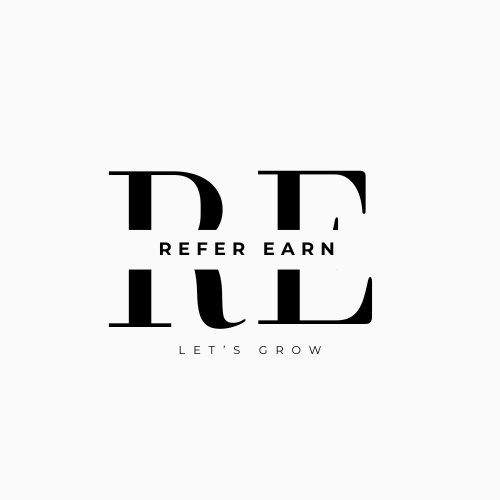
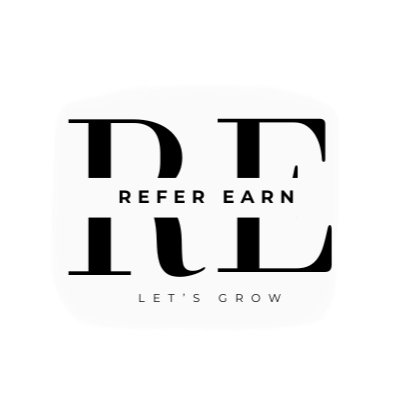
frontend_done

Changed region(s): [[0.1796, 0.2693, 0.8379, 0.7481], [0.1496, 0.5387, 0.3591, 0.6883], [0.4788, 0.7182, 0.5087, 0.7481]]

diff --git a/app/contact/page.tsx b/app/contact/page.tsx
@@ -1,17 +1,48 @@
-import React from 'react';
+"use client"
+import React, { useState } from 'react';
+import emailjs from 'emailjs-com';
 
 const ContactUs: React.FC = () => {
+  const [formData, setFormData] = useState({
+    name: '',
+    email: '',
+    message: '',
+  });
+  const [isSent, setIsSent] = useState(false);
+  const [error, setError] = useState('');
+
+  const handleChange = (e: React.ChangeEvent<HTMLInputElement | HTMLTextAreaElement>) => {
+    const { name, value } = e.target;
+    setFormData({ ...formData, [name]: value });
+  };
+
+  const handleSubmit = (e: React.FormEvent<HTMLFormElement>) => {
+    e.preventDefault();
+
+    emailjs.send('service_syujl1n', 'YOUR_TEMPLATE_ID', formData, 'tech.refereran@gmail.com')
+      .then((response) => {
+        console.log('SUCCESS!', response.status, response.text);
+        setIsSent(true);
+        setFormData({ name: '', email: '', message: '' }); // Reset form
+      })
+      .catch((err) => {
+        console.error('FAILED...', err);
+        setError('Failed to send message. Please try again later.');
+      });
+  };
+
   return (
     <section className="text-gray-600 body-font relative">
       <div className="container px-5 py-24 mx-auto">
         <div className="flex flex-col text-center w-full mb-12">
           <h1 className="sm:text-3xl text-2xl font-medium title-font mb-4 text-gray-900">Contact Us</h1>
           <p className="lg:w-2/3 mx-auto leading-relaxed text-base">
-            Whatever cardigan tote bag tumblr hexagon brooklyn asymmetrical gentrify.
+            If facing any issue, You are Welcomed to share with us.
+            Write your query/issue properly.
           </p>
         </div>
         <div className="lg:w-1/2 md:w-2/3 mx-auto">
-          <div className="flex flex-wrap -m-2">
+          <form onSubmit={handleSubmit} className="flex flex-wrap -m-2">
             <div className="p-2 w-1/2">
               <div className="relative">
                 <label htmlFor="name" className="leading-7 text-sm text-gray-600">Name</label>
@@ -19,7 +50,10 @@ const ContactUs: React.FC = () => {
                   type="text"
                   id="name"
                   name="name"
+                  value={formData.name}
+                  onChange={handleChange}
                   className="w-full bg-gray-100 bg-opacity-50 rounded border border-gray-300 focus:border-indigo-500 focus:bg-white focus:ring-2 focus:ring-indigo-200 text-base outline-none text-gray-700 py-1 px-3 leading-8 transition-colors duration-200 ease-in-out"
+                  required
                 />
               </div>
             </div>
@@ -30,7 +64,10 @@ const ContactUs: React.FC = () => {
                   type="email"
                   id="email"
                   name="email"
+                  value={formData.email}
+                  onChange={handleChange}
                   className="w-full bg-gray-100 bg-opacity-50 rounded border border-gray-300 focus:border-indigo-500 focus:bg-white focus:ring-2 focus:ring-indigo-200 text-base outline-none text-gray-700 py-1 px-3 leading-8 transition-colors duration-200 ease-in-out"
+                  required
                 />
               </div>
             </div>
@@ -40,41 +77,30 @@ const ContactUs: React.FC = () => {
                 <textarea
                   id="message"
                   name="message"
+                  value={formData.message}
+                  onChange={handleChange}
                   className="w-full bg-gray-100 bg-opacity-50 rounded border border-gray-300 focus:border-indigo-500 focus:bg-white focus:ring-2 focus:ring-indigo-200 h-32 text-base outline-none text-gray-700 py-1 px-3 resize-none leading-6 transition-colors duration-200 ease-in-out"
+                  required
                 ></textarea>
               </div>
             </div>
             <div className="p-2 w-full">
-              <button className="flex mx-auto text-white bg-indigo-500 border-0 py-2 px-8 focus:outline-none hover:bg-indigo-600 rounded text-lg">Button</button>
+              <button type="submit" className="flex mx-auto text-white bg-indigo-500 border-0 py-2 px-8 focus:outline-none hover:bg-indigo-600 rounded text-lg">Send Message</button>
             </div>
+            {isSent && (
+              <div className="p-2 w-full pt-8 mt-8 border-t border-gray-200 text-center">
+                <p className="text-green-500">Message sent successfully!</p>
+              </div>
+            )}
+            {error && (
+              <div className="p-2 w-full pt-8 mt-8 border-t border-gray-200 text-center">
+                <p className="text-red-500">{error}</p>
+              </div>
+            )}
             <div className="p-2 w-full pt-8 mt-8 border-t border-gray-200 text-center">
-              <a className="text-indigo-500">example@email.com</a>
-              <p className="leading-normal my-5">49 Smith St.<br />Saint Cloud, MN 56301</p>
-              <span className="inline-flex">
-                <a className="text-gray-500">
-                  <svg fill="currentColor" strokeLinecap="round" strokeLinejoin="round" strokeWidth="2" className="w-5 h-5" viewBox="0 0 24 24">
-                    <path d="M18 2h-3a5 5 0 00-5 5v3H7v4h3v8h4v-8h3l1-4h-4V7a1 1 0 011-1h3z"></path>
-                  </svg>
-                </a>
-                <a className="ml-4 text-gray-500">
-                  <svg fill="currentColor" strokeLinecap="round" strokeLinejoin="round" strokeWidth="2" className="w-5 h-5" viewBox="0 0 24 24">
-                    <path d="M23 3a10.9 10.9 0 01-3.14 1.53 4.48 4.48 0 00-7.86 3v1A10.66 10.66 0 013 4s-4 9 5 13a11.64 11.64 0 01-7 2c9 5 20 0 20-11.5a4.5 4.5 0 00-.08-.83A7.72 7.72 0 0023 3z"></path>
-                  </svg>
-                </a>
-                <a className="ml-4 text-gray-500">
-                  <svg fill="none" stroke="currentColor" strokeLinecap="round" strokeLinejoin="round" strokeWidth="2" className="w-5 h-5" viewBox="0 0 24 24">
-                    <rect width="20" height="20" x="2" y="2" rx="5" ry="5"></rect>
-                    <path d="M16 11.37A4 4 0 1112.63 8 4 4 0 0116 11.37zm1.5-4.87h.01"></path>
-                  </svg>
-                </a>
-                <a className="ml-4 text-gray-500">
-                  <svg fill="currentColor" strokeLinecap="round" strokeLinejoin="round" strokeWidth="2" className="w-5 h-5" viewBox="0 0 24 24">
-                    <path d="M21 11.5a8.38 8.38 0 01-.9 3.8 8.5 8.5 0 01-7.6 4.7 8.38 8.38 0 01-3.8-.9L3 21l1.9-5.7a8.38 8.38 0 01-.9-3.8 8.5 8.5 0 014.7-7.6 8.38 8.38 0 013.8-.9h.5a8.48 8.48 0 018 8v.5z"></path>
-                  </svg>
-                </a>
-              </span>
+              <a href={`mailto:tech.referearn@gmail.com`} className="text-indigo-500">tech.referearn@gmail.com</a>
             </div>
-          </div>
+          </form>
         </div>
       </div>
     </section>

diff --git a/app/components/Hero.tsx b/app/components/Hero.tsx
@@ -1,36 +1,75 @@
+"use client";
 import React from 'react';
-import Image from 'next/image';
 import { FaArrowRight } from 'react-icons/fa';
+import { motion } from 'framer-motion';
+
 const Hero: React.FC = () => {
   return (
-    <section className="text-gray-600 body-font">
-      <div className="container mx-auto flex px-5 py-2 items-center justify-center flex-col">
-        <Image
-          className="lg:w-2/6 md:w-3/6 w-5/6 mb-10 object-cover object-center rounded"
-          alt="hero"
-          src="/r.png"
-          height={400}
-          width={720}
-        />
-        <div className="text-center lg:w-2/3 w-full">
-          <h1 className="title-font sm:text-4xl text-3xl mb-4 font-medium text-gray-900">
-            Refer Earn : Let&apos;s Grow
-          </h1>
-          <p className="mb-8 leading-relaxed">
+    <section className="text-gray-600 body-font bg-gray-50 relative overflow-hidden">
+      <div className="container mx-auto flex flex-col items-center justify-center px-5 py-8">
+        {/* Animated Gradient Text with Reduced Margin */}
+        <motion.h1 
+          className="absolute top-5 text-center text-[60px] sm:text-[80px] md:text-[100px] font-bold leading-tight text-transparent bg-clip-text bg-gradient-to-r from-indigo-500 to-purple-500 mb-10 sm:mb-5"
+          initial={{ opacity: 0, y: -30 }}
+          animate={{ opacity: 1, y: 0 }}
+          transition={{ duration: 1, ease: "easeOut", delay: 0.1 }}
+        >
+          Refer Earn
+        </motion.h1>
+
+        <div className="text-center lg:w-2/3 w-full mt-32">
+          <motion.h1
+            className="title-font sm:text-5xl text-4xl mb-6 font-bold text-gray-900 leading-tight"
+            initial={{ opacity: 0, y: -20 }}
+            animate={{ opacity: 1, y: 0 }}
+            transition={{ duration: 0.6, delay: 0.2 }}
+          >
+            Let&apos;s Grow
+          </motion.h1>
+
+          <motion.p
+            className="mb-8 leading-relaxed text-lg text-gray-700"
+            initial={{ opacity: 0 }}
+            animate={{ opacity: 1 }}
+            transition={{ duration: 0.6, delay: 0.4 }}
+          >
             In a world where opportunities are abundant yet elusive, &quot;Refer Earn&quot; stands as a beacon of growth and collaboration. Imagine a platform where your connections not only enrich your life but also reward you for sharing them. With every referral, you’re not just introducing someone to a service; you’re opening doors to new possibilities for both yourself and those around you.
-
-          </p>
-
+          </motion.p>
 
           <div className="flex justify-center">
             <a href="/profile">
-              <button className="inline-flex items-center text-white bg-indigo-500 border-0 py-2 px-6 focus:outline-none hover:bg-indigo-600 rounded text-lg transition duration-200 ease-in-out transform hover:scale-105">
+              <motion.button
+                className="inline-flex items-center text-white bg-indigo-500 border-0 py-3 px-8 focus:outline-none hover:bg-indigo-600 rounded-lg text-lg transition duration-300 ease-in-out transform hover:scale-105 shadow-lg"
+                whileHover={{ scale: 1.05 }}
+                whileTap={{ scale: 0.95 }}
+              >
                 Let&apos;s Go <FaArrowRight className="ml-2" />
-              </button>
+              </motion.button>
             </a>
           </div>
         </div>
       </div>
+
+      {/* CSS for Animated Gradient */}
+      <style jsx>{`
+        @keyframes gradient-animation {
+          0% {
+            background-position: 0% 50%;
+          }
+          50% {
+            background-position: 100% 50%;
+          }
+          100% {
+            background-position: 0% 50%;
+          }
+        }
+
+        .animate-gradient {
+          background-image: linear-gradient(270deg, #4f46e5, #a855f7, #4f46e5);
+          background-size: 400% 400%;
+          animation: gradient-animation 6s ease infinite;
+        }
+      `}</style>
     </section>
   );
 };

diff --git a/app/components/Navbar.tsx b/app/components/Navbar.tsx
@@ -33,7 +33,7 @@ const Navbar = () => {
         {/* Logo Section (visible on large screens) */}
         <div className="hidden md:flex items-center">
           <Image 
-            src="/r.png" // Replace with your logo path
+            src="/img.jpeg" // Replace with your logo path
             alt="Refer Earn Logo" 
             height={40}
             width={40}

diff --git a/app/page.tsx b/app/page.tsx
@@ -14,7 +14,7 @@ export default function Home() {
 
       <main className="flex flex-col items-center bg-gray-50">
         {/* Hero Section */}
-        <section className="w-full bg-white text-black py-20"> {/* Changed to gray-100 */}
+        <section className="w-full bg-white text-black py-5"> {/* Changed to gray-100 */}
           <Hero />
         </section>
 

diff --git a/app/components/Footer.tsx b/app/components/Footer.tsx
@@ -9,7 +9,7 @@ const Footer: React.FC = () => {
           href="#"
         >
           <Image
-          src={"/r.png"}
+          src={"/img.jpeg"}
           width={100}
           height={100}
           alt=""
